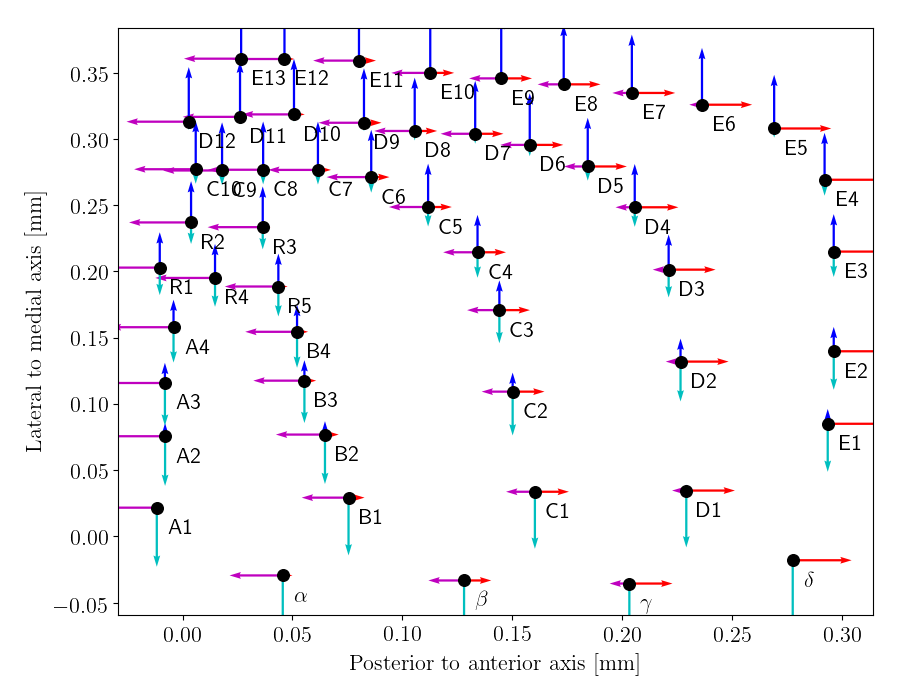
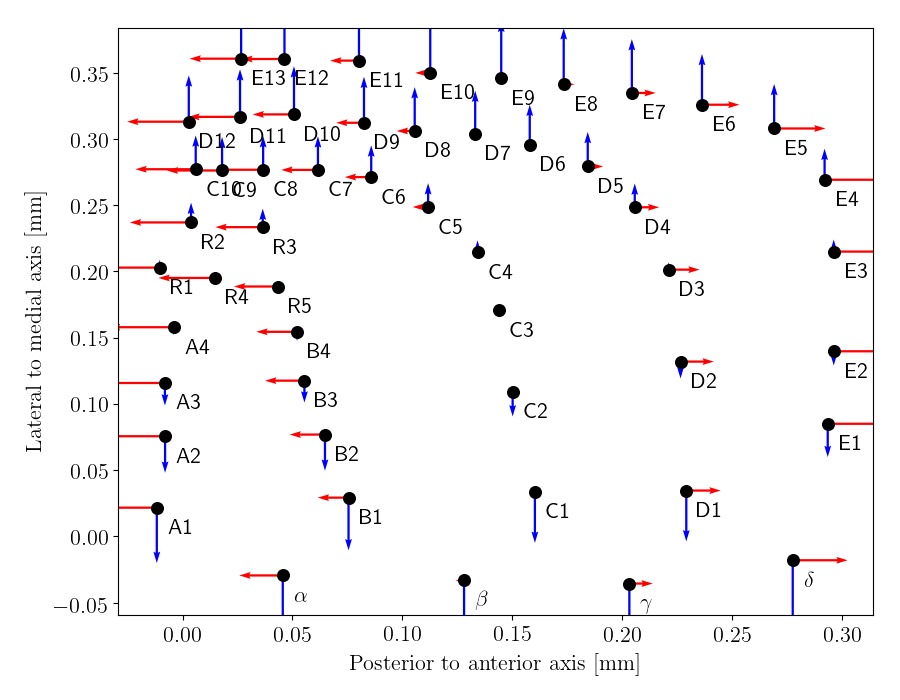
nearly the correct orientation. still seeing numerical problems

diff --git a/boundaries/barreloids_haidarliu.py b/boundaries/barreloids_haidarliu.py
@@ -13,7 +13,7 @@ import csv
 D = {}
 
 # Params for the output text
-epsilon = 200
+epsilon = 170
 alpha = 3
 beta = 20
 xinit = -0.16
@@ -62,10 +62,18 @@ with open('barreloids_haidarliu.csv') as csvDataFile:
         # stick array in a dictionary keyed by lbl
         D[lbl] = ar
 
+# Produce guidance interactions for 4 gradients (two opposing pairs, orthogonally
+# arranged) or two orthogonal gradients for which interactions will be positive or
+# negative.
+show_four = 0 # Else show two
+
 # Output the text for the config file
 for d in D:
     #print ('{0}'.format(d))
-    print ('{{ "alpha" : {0}, "beta" : {1}, "epsilon" : {2}, "xinit" : {3},   "yinit" : {4}, "sigmainit" : {5}, "gaininit" : {6}, "gamma" : [{7}, {8}, {9}, {10}] }}, // {11}'.format(alpha, beta, epsilon, xinit, yinit, sigmainit, gaininit, D[d][2], D[d][3], D[d][4], D[d][5], d))
+    if show_four:
+        print ('{{ "alpha" : {0}, "beta" : {1}, "epsilon" : {2}, "xinit" : {3},   "yinit" : {4}, "sigmainit" : {5}, "gaininit" : {6}, "gamma" : [{7}, {8}, {9}, {10}] }}, // {11}'.format(alpha, beta, epsilon, xinit, yinit, sigmainit, gaininit, D[d][2], D[d][3], D[d][4], D[d][5], d))
+    else:
+        print ('{{ "alpha" : {0}, "beta" : {1}, "epsilon" : {2}, "xinit" : {3},   "yinit" : {4}, "sigmainit" : {5}, "gaininit" : {6}, "gamma" : [{7}, {8}] }}, // {9}'.format(alpha, beta, epsilon, xinit, yinit, sigmainit, gaininit, (D[d][2]-D[d][3]), (D[d][4]-D[d][5]), d))
 
 # Draw a scatter graph
 fs = 16
@@ -108,26 +116,17 @@ for d in D: # Care, requires that there are no duplicate labels
     xqui = np.append(xqui, D[d][0])
     yqui = np.append(yqui, D[d][1])
 
-show_four = 1
 sm = 12 # scalemult
 
-offset_arrows = 0
-if offset_arrows:
-    if show_four:
-        ax0.quiver (xqui-(g1qui*0.25)/(gmax*sm), yqui+0.02, g1qui, 0, color='r', width=0.003, scale=gmax*sm)
-        ax0.quiver (xqui+(g2qui*0.25)/(gmax*sm), yqui+0.03, -g2qui, 0, color='m', width=0.003, scale=gmax*sm)
-        ax0.quiver (xqui-0.01, yqui-(g3qui*0.25)/(gmax*sm)-0.0, 0, g3qui, color='b', width=0.003, scale=gmax*sm)
-        ax0.quiver (xqui-0.02, yqui+(g4qui*0.25)/(gmax*sm)-0.0, 0, -g4qui, color='c', width=0.003, scale=gmax*sm)
-    else:
-        ax0.quiver (xqui, yqui, g1qui-g2qui, g3qui-g4qui, color='k', width=0.003)
-
-    ax0.scatter (xqui, yqui, c='k', s=120, marker='o')
-
-else:
+if show_four:
     ax0.quiver (xqui, yqui, g1qui, 0, color='r', width=0.003, scale=gmax*sm)
     ax0.quiver (xqui, yqui, -g2qui, 0, color='m', width=0.003, scale=gmax*sm)
     ax0.quiver (xqui, yqui, 0, g3qui, color='b', width=0.003, scale=gmax*sm)
     ax0.quiver (xqui, yqui, 0, -g4qui, color='c', width=0.003, scale=gmax*sm)
+else:
+    ax0.quiver (xqui, yqui, g1qui-g2qui, 0, color='r', width=0.003, scale=gmax*sm)
+    ax0.quiver (xqui, yqui, 0, g3qui-g4qui, color='b', width=0.003, scale=gmax*sm)
+
 
     ax0.scatter (xqui, yqui, c='k', s=70, marker='o')
 
